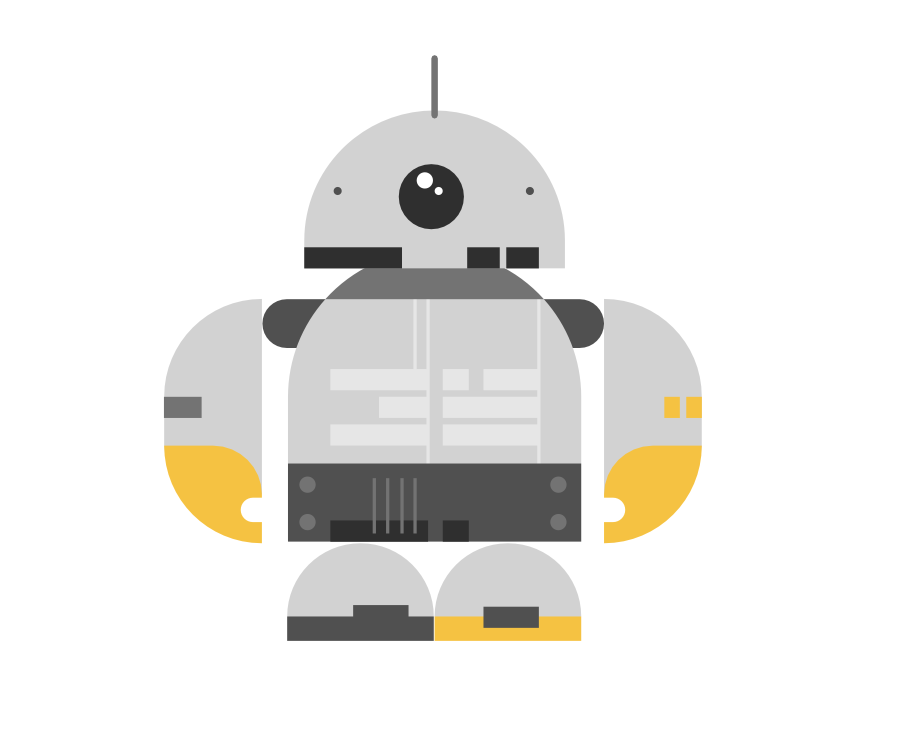
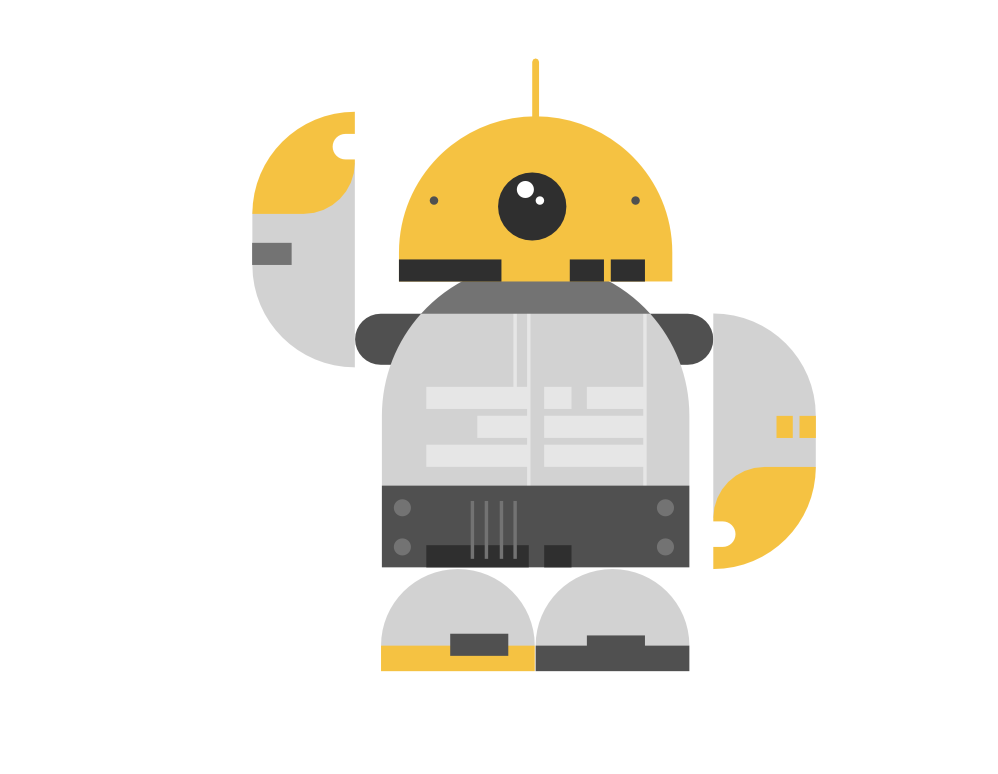
Flow and Rendering - Game Start page

Changed region(s): [[0.1522, 0.0603, 0.8217, 0.9041]]

diff --git a/app/src/components/MainContent.js b/app/src/components/MainContent.js
@@ -1,6 +1,7 @@
 import React, { useState } from 'react';
+import GameContent from './GameContent';
 import leftRobotImage  from '../assets/Robot1.png';
-import rightRobotImage  from '../assets/Robot1.png';
+import rightRobotImage  from '../assets/Robot2.png';
 
 function MainComponent() {
   const [gameCode, setGameCode] = useState('');
@@ -8,7 +9,6 @@ function MainComponent() {
   const [gameStage, setGameStage] = useState('landing'); 
 
   const handleStartGame = () => {
-    // Here you would generate a unique game code
     const newGameCode = 'XYZ123'; // This should be dynamically generated
     setGameCode(newGameCode);
     setGameStage('start');
@@ -19,9 +19,6 @@ function MainComponent() {
   };
 
   const handleSubmit = () => {
-    // Here you would verify the game code and player name
-    // This is where your game's logic will determine if the inputs are correct
-    // For now, we'll just transition to the intro stage
     setGameStage('intro');
   };
 
@@ -66,20 +63,85 @@ function MainComponent() {
   const renderIntro = () => (
     <div>
       <p>Welcome to the game, {playerName}!</p>
-      {/* Additional introductory content goes here */}
+      <button className="button" onClick={() => setGameStage('introducton')}>Continue</button>
+     
     </div>
   );
 
+  const renderIntroductons = () => (
+    <div>
+      <h1>Game Introduction</h1>
+      <p>
+      Welcome, curious minds! As we embark on this exciting journey,
+       let's briefly explore the essence of AI - a blend of technology
+       and intellect, where computers learn and make decisions,
+       much like us. Now, imagine this smart technology in healthcare:
+       aiding doctors, personalizing treatments, and revolutionizing care.
+       Let's dive in and uncover the wonders of AI in healthcare together! 🌟🏥🤖
+      </p>
+      <button className="button" onClick={() => setGameStage('instruction')}>Continue</button>
+    </div>
+  );
+
+  const renderInstructions = () => (
+    <div>
+      <h1>Game Instructions</h1>
+      <h2>🌐 Welcome to the Insightful World of AI in Healthcare - The Guessing Game!</h2>
+      <p>
+      In each round, one player is the clue giver, 
+      and the other is the guesser. The clue giver describes the AI 
+      healthcare term without using specific taboo words in a single word,
+      while the guesser tries to identify the term. Points are awarded based
+      on the number of clues needed to guess correctly, with fewer clues earning more points.🎮🤔🌟
+      </p>
+      <button className="button" onClick={() => setGameStage('questions')}>Continue</button>
+      
+    </div>
+  );
+
+  const renderQuestions = () => (
+    <div>
+      <h1>Game questions</h1>
+      <button className="button" onClick={() => setGameStage('play')}>Continue</button>
+      
+    </div>
+  );
+
+  function renderleftImages() {
+    if (gameStage !== 'play') {
+      return (
+        <>
+          <img src={leftRobotImage} alt="Left Robot" className="sideImage"/>
+          
+        </>
+      );
+    }
+  }
+
+  function renderrightImages() {
+    if (gameStage !== 'play') {
+      return (
+        <>
+          <img src={rightRobotImage} alt="Left Robot" className="sideImage"/>
+        </>
+      );
+    }
+  }
+
   return (
     <div className="mainContent" >
-    <img src={leftRobotImage} alt="Left Robot" className="sideImage"/>
+   {renderleftImages()}
     <div  >
       {gameStage === 'landing' && renderLanding()}
       {gameStage === 'start' && renderStartGame()}
       {gameStage === 'join' && renderJoinGame()}
       {gameStage === 'intro' && renderIntro()}
+      {gameStage === 'introducton' && renderIntroductons()}
+      {gameStage === 'instruction' && renderInstructions()}
+      {gameStage === 'questions' && renderQuestions()}
+      {gameStage === 'play' &&<GameContent/>}
     </div>
-    <img src={rightRobotImage} alt="Right Robot" className="sideImage" />
+    {renderrightImages()}
   </div>
   );
 }

diff --git a/app/src/components/GameContent.js b/app/src/components/GameContent.js
@@ -1,0 +1,10 @@
+import React from 'react';
+import './Style.css';
+
+function GameContent() {
+  return (
+   <p> Game Starts</p>
+  );
+}
+
+export default GameContent;

diff --git a/app/src/components/Footer.js b/app/src/components/Footer.js
@@ -1,5 +1,5 @@
 import React from 'react';
-import './Style.css';// Assuming you have a Footer.css for styling
+import './Style.css';
 
 function Footer() {
   return (
